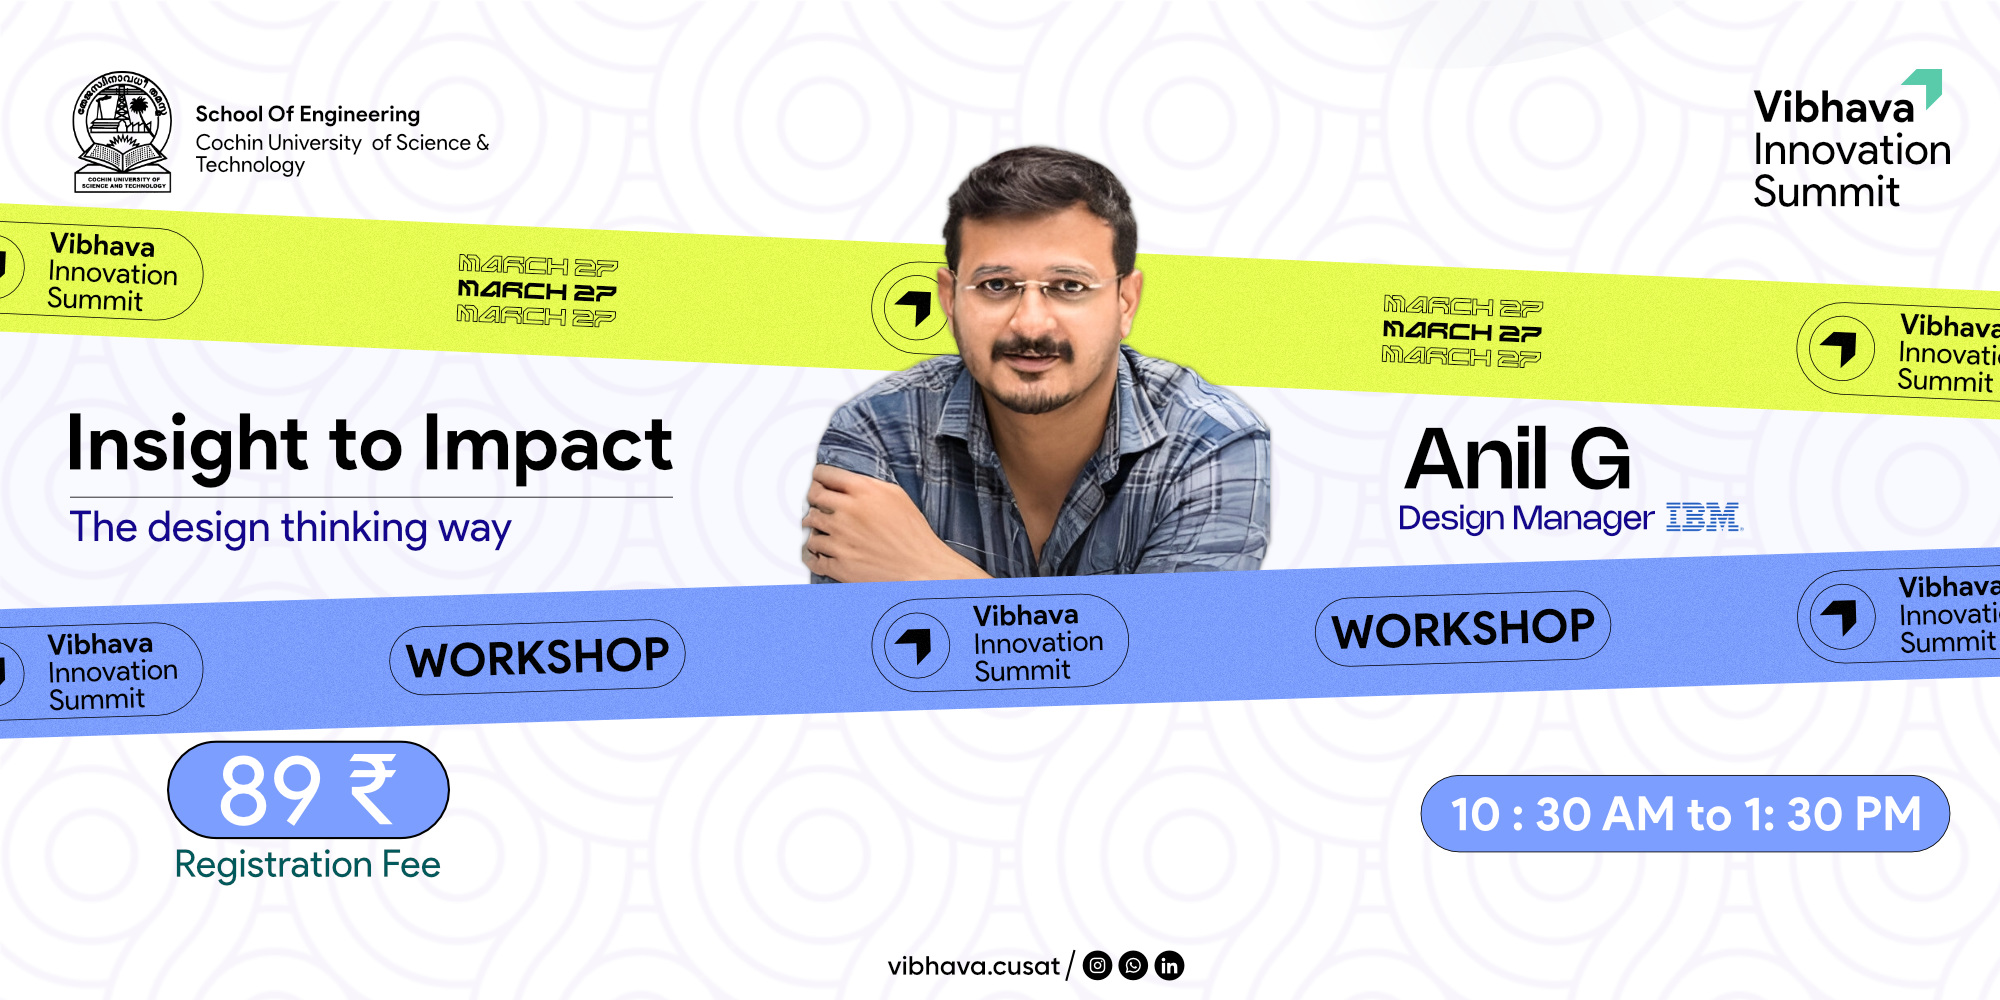
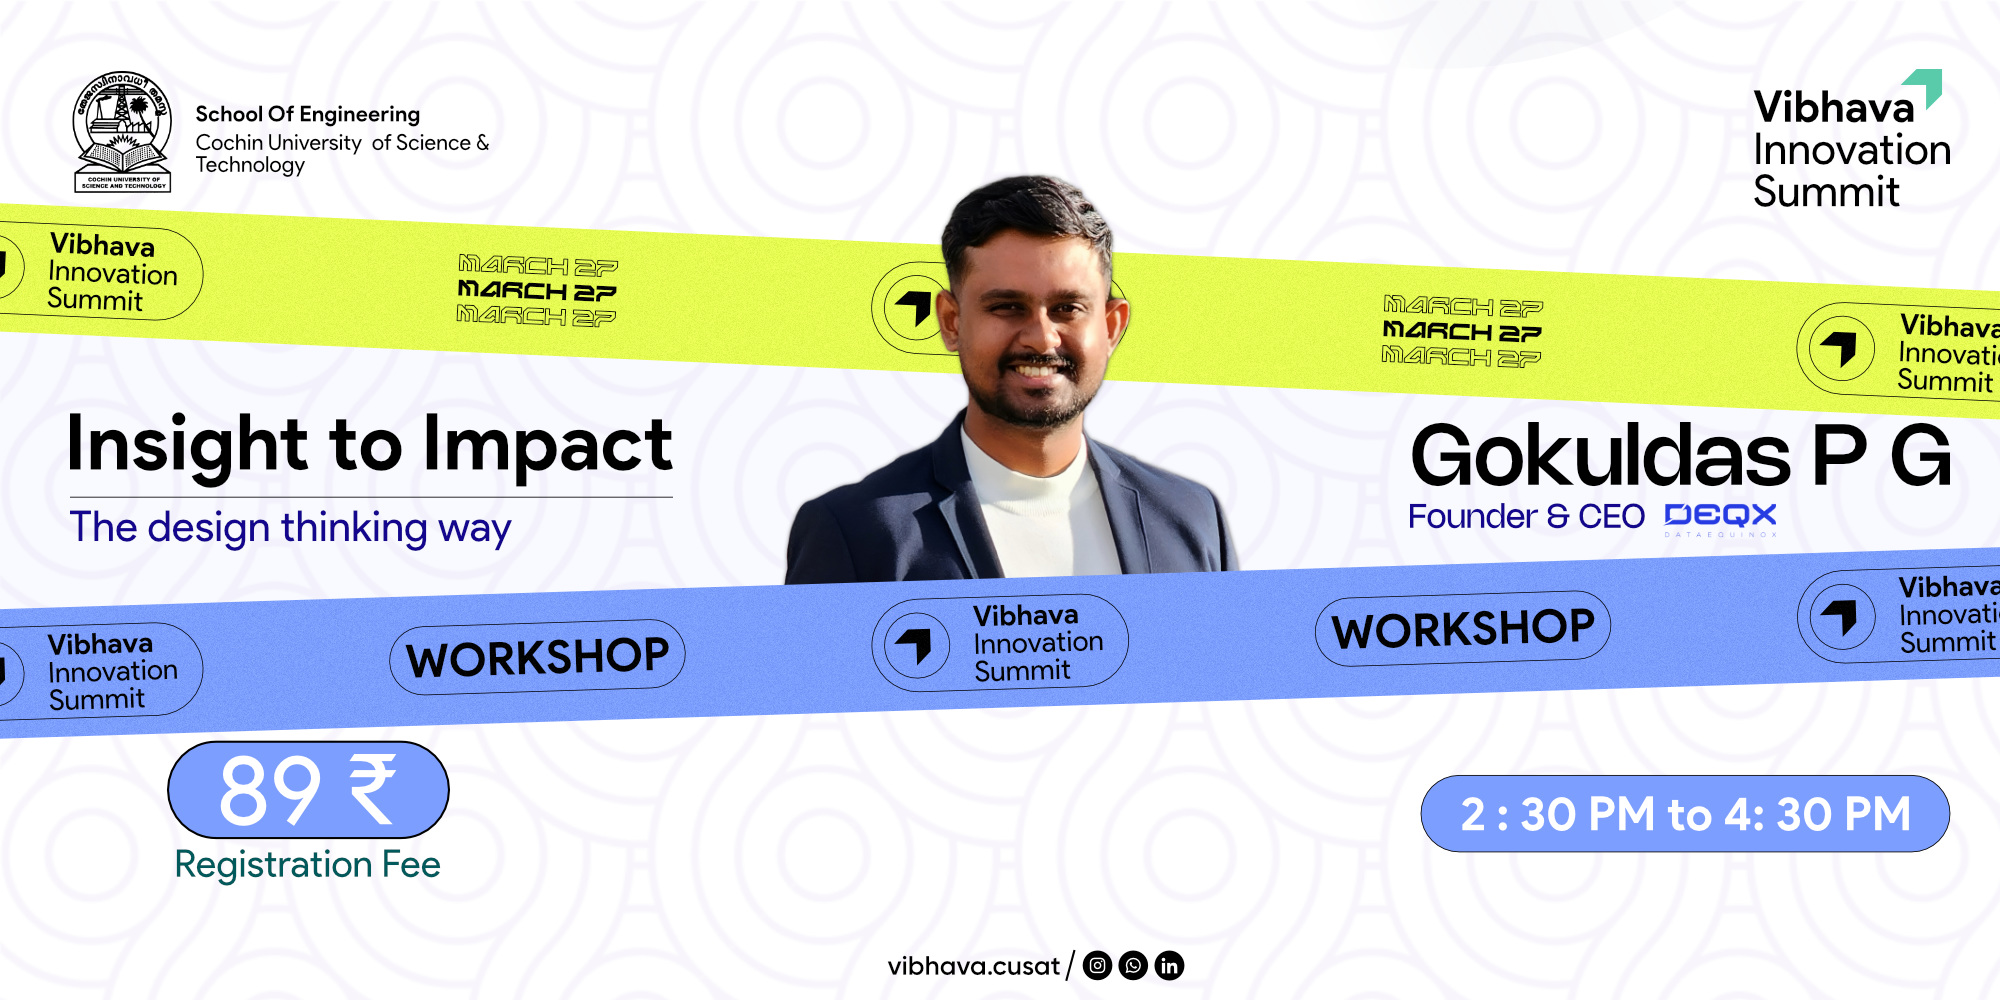
updated events workshop

Changed region(s): [[0.372, 0.124, 0.651, 0.589], [0.682, 0.403, 0.992, 0.558], [0.713, 0.775, 0.961, 0.837]]

diff --git a/components/Speakers.tsx b/components/Speakers.tsx
@@ -22,14 +22,14 @@ const speakers: Speaker[] = [
   {
     id: "1",
     name: "Sunil Mathayi",
-    role: "Tradetalks with Sunil",
-    company: "TechCorp",
+    role: "Founder,CEO",
+    company: "Tradetalks",
     image: "/speakers/speaker1.jpg",
-    bio: "Leading AI research initiatives and developing cutting-edge solutions for real-world problems.",
+    bio: "With 4.5+ years in fintech, Sunil Mathayi leads TradeTalks in revolutionizing trading technology. An expert in Core Java and Web Development, he brings innovation, strategic insight, and a passion for market disruption.  ",
     social: {
-      twitter: "https://twitter.com/sarahchen",
-      linkedin: "https://linkedin.com/in/sarahchen",
-      website: "https://sarahchen.com"
+      // twitter: "https://twitter.com/sarahchen",
+      // linkedin: "https://linkedin.com/in/sarahchen",
+      // website: "https://sarahchen.com"
     }
   },
   {
@@ -40,41 +40,41 @@ const speakers: Speaker[] = [
     image: "/speakers/speaker2.jpg",
     bio: "Serial entrepreneur with multiple successful exits. Passionate about sustainable technology.",
     social: {
-      twitter: "https://twitter.com/alexturner",
-      linkedin: "https://linkedin.com/in/alexturner"
+      // twitter: "https://twitter.com/alexturner",
+      // linkedin: "https://linkedin.com/in/alexturner"
     }
   },
   {
     id: "3",
-    name: "Jacob",
-    role: "Sustainability Expert",
-    company: "EcoTech",
+    name: "Jacob Thomas",
+    role: "Delivery Manager",
+    company: "Tata Consultancy Services",
     image: "/speakers/speaker3.jpg",
-    bio: "Pioneering sustainable technology solutions and advocating for environmental responsibility.",
+    bio: "Starting as a developer, Jacob Thomas has grown into a Project Manager and now excels in Delivery Management. With a passion for Relationship Management and Business Development, he is dedicated to adding value to customers and enhancing the ecosystem.",
     social: {
-      linkedin: "https://linkedin.com/in/michaelgreen",
-      website: "https://michaelgreen.eco"
+      // linkedin: "https://linkedin.com/in/michaelgreen",
+      // website: "https://michaelgreen.eco"
     }
   },
   {
     id: "4",
     name: "Aisha Sameeha",
-    role: "UX Design Director",
-    company: "DesignHub",
+    role: "Founder",
+    company: "Koderfin",
     image: "/speakers/speaker4.jpg",
-    bio: "Award-winning designer focused on creating inclusive and accessible digital experiences.",
+    bio: "As the Founder of Koderfin, Aisha Sameeha is a seasoned Design Thinking consultant, mentor, and coach. With a passion for innovation, he has educated 20,000+ students, developed 5+ startups, and helped 25+ companies transform through Design Thinking. His expertise extends to managing 180+ institutions for Ed clubs, driving impactful change in education and business.",
     social: {
-      twitter: "https://twitter.com/lisapatel",
-      linkedin: "https://linkedin.com/in/lisapatel"
+      // twitter: "https://twitter.com/lisapatel",
+      // linkedin: "https://linkedin.com/in/lisapatel"
     }
   },
   {
     id: "5",
     name: "Alosh Denny",
-    role: "Tech Innovation Lead",
-    company: "FutureTech",
+    role: "AGI Developer",
+    company: "",
     image: "/speakers/speaker5.jpeg",
-    bio: "Driving technological innovation and digital transformation across industries.",
+    bio: "An AI enthusiast and AGI developer, Alosh specializes in Robotics, IoT, and Generative AI. A 2023 & 2024 European Rover Challenge finalist (World Rank 11), he has competed in 30+ hackathons and now pioneers AI-driven healthcare innovation.",
     social: {
       twitter: "https://twitter.com/davidbrown",
       linkedin: "https://linkedin.com/in/davidbrown"

diff --git a/components/Events.tsx b/components/Events.tsx
@@ -59,15 +59,15 @@ const categories: Category[] = [
         capacity: "100 participants",
         registrationLink: "https://makemypass.com/event/workshop-3"
       },
-      // {
-      //   title: "Design Thinking & Product Dev",
-      //   date: "March 27, 2025",
-      //   time: "10:30 AM - 1:30 PM",
-      //   description: "Art of creating ",
-      //   speaker: "ANIL G,IBM",
-      //   capacity: "50 participants",
-      //   registrationLink: "https://makemypass.com/event/design-workshop"
-      // },
+      {
+        title: "Design Thinking & Product Dev",
+        date: "March 27, 2025",
+        time: "10:30 AM - 1:30 PM",
+        description: "Art of creating ",
+        speaker: "Gokuldas P G",
+        capacity: "50 participants",
+        registrationLink: "https://makemypass.com/event/design-workshop"
+      },
     ],
   },
   {
